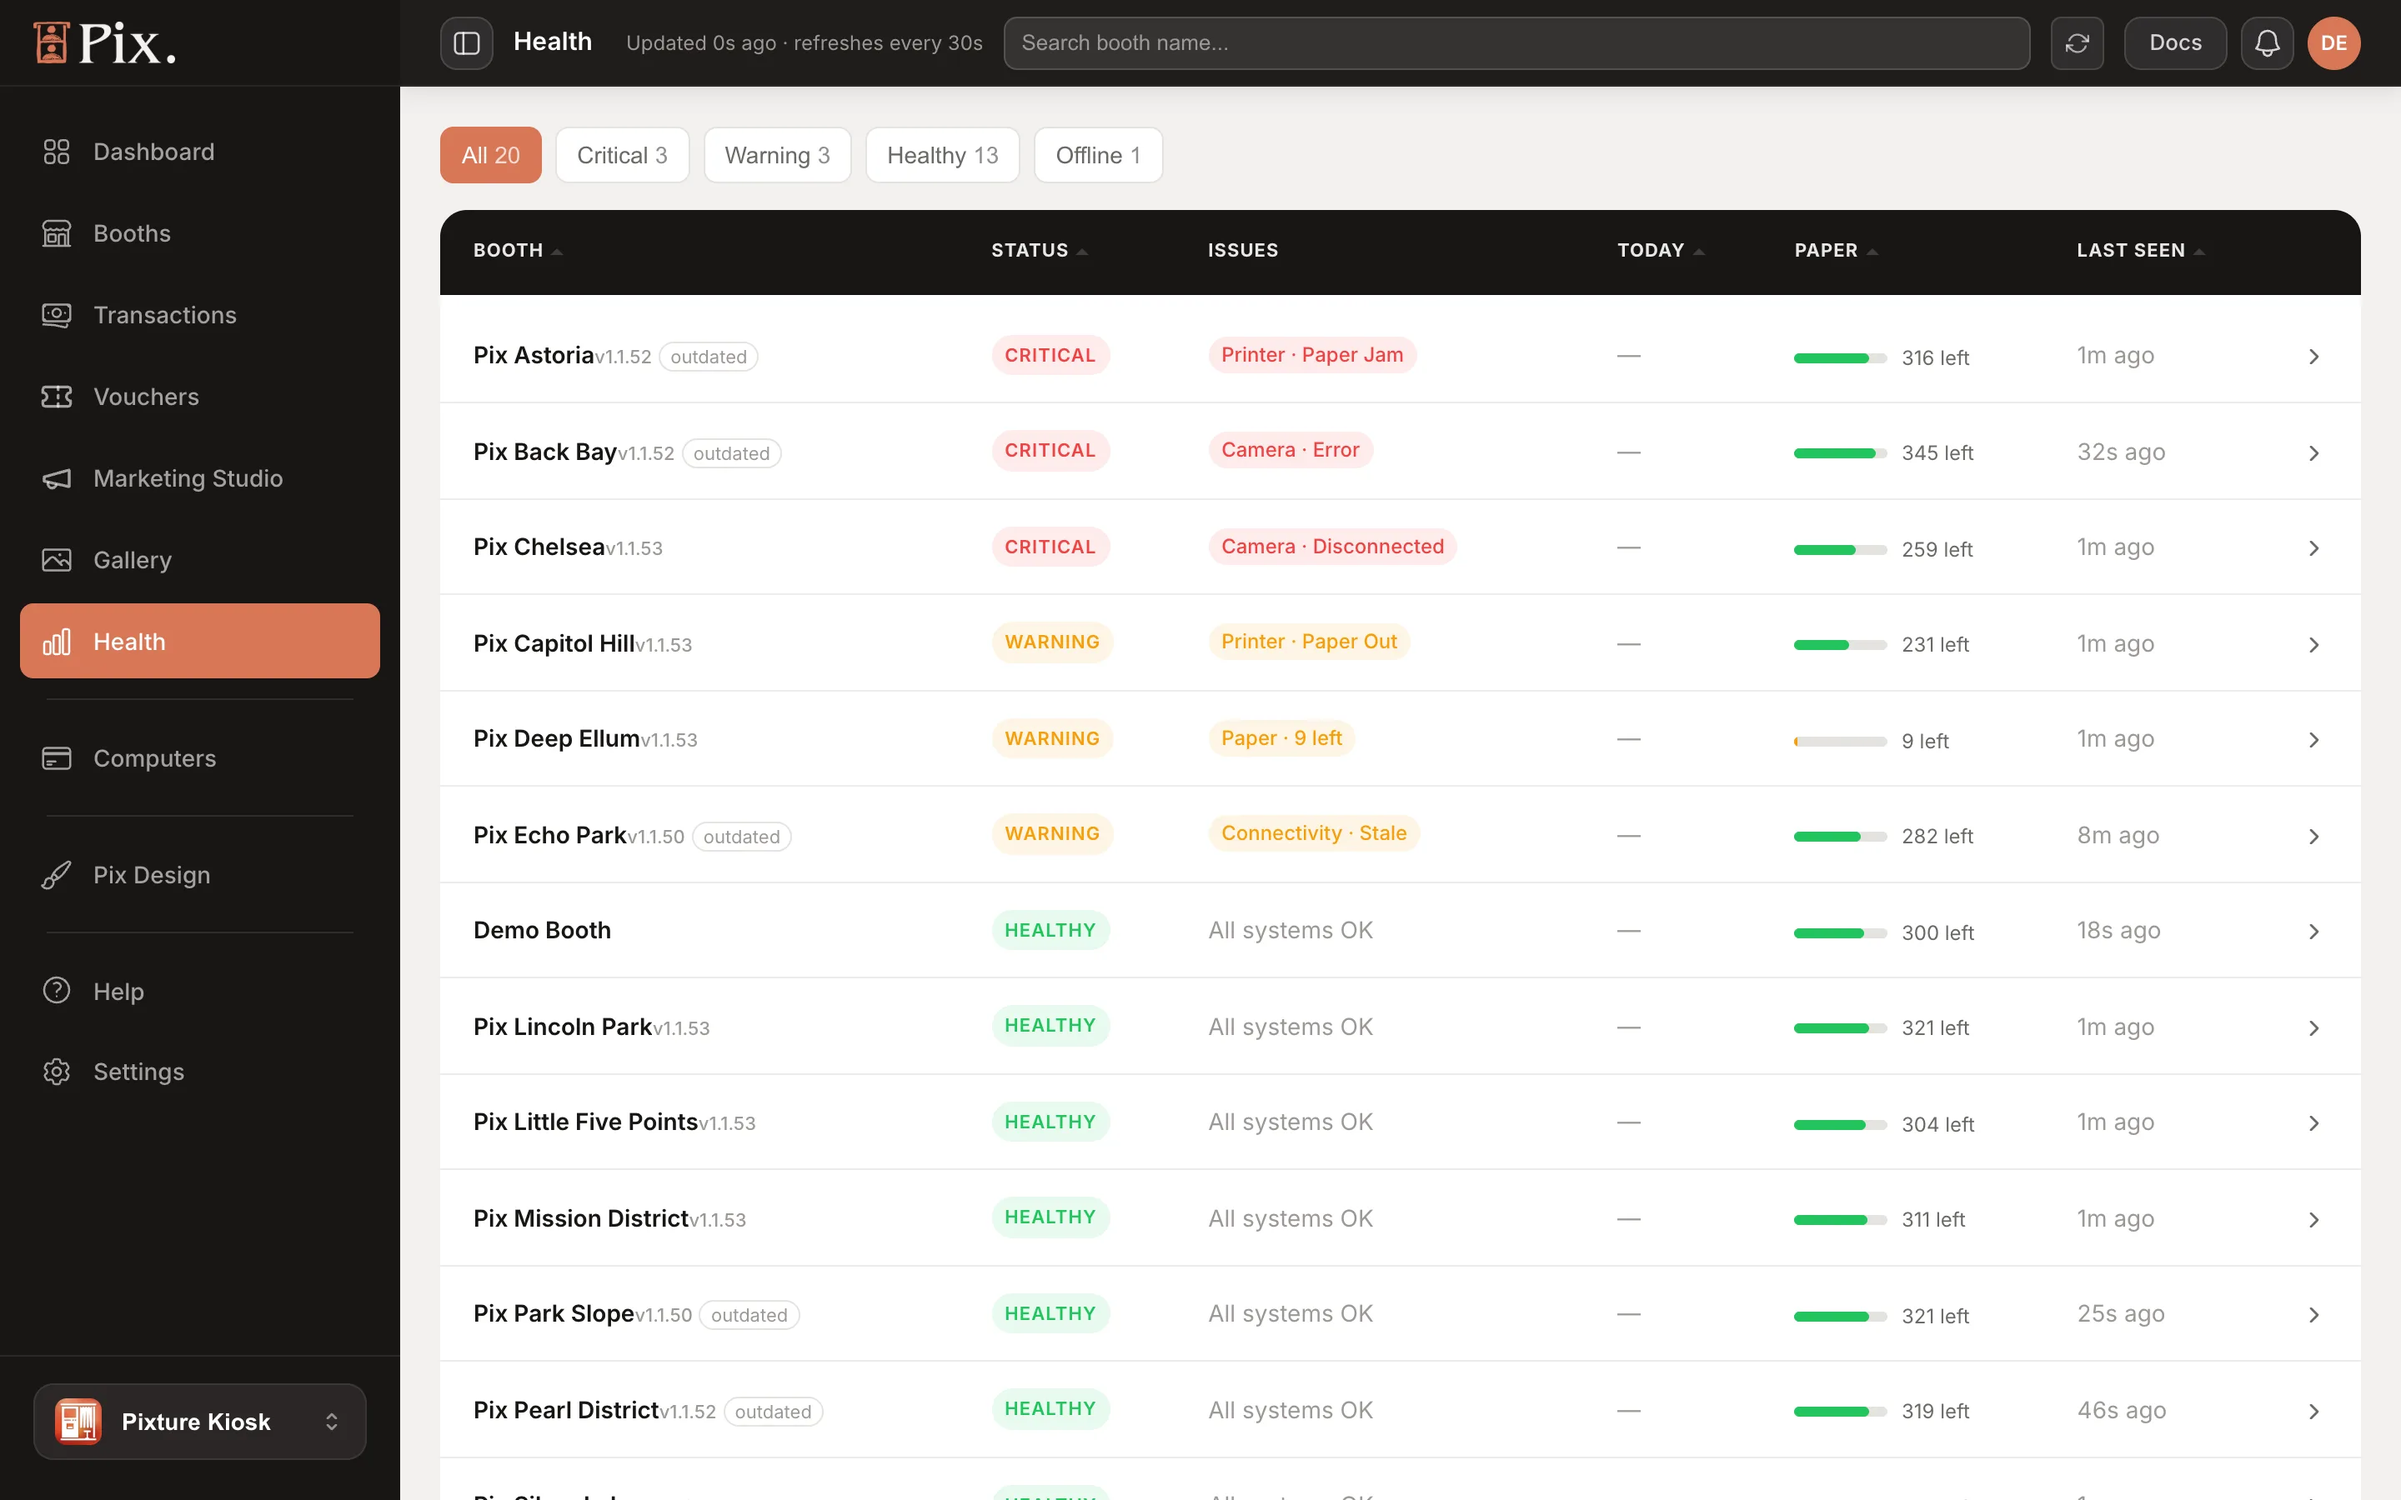
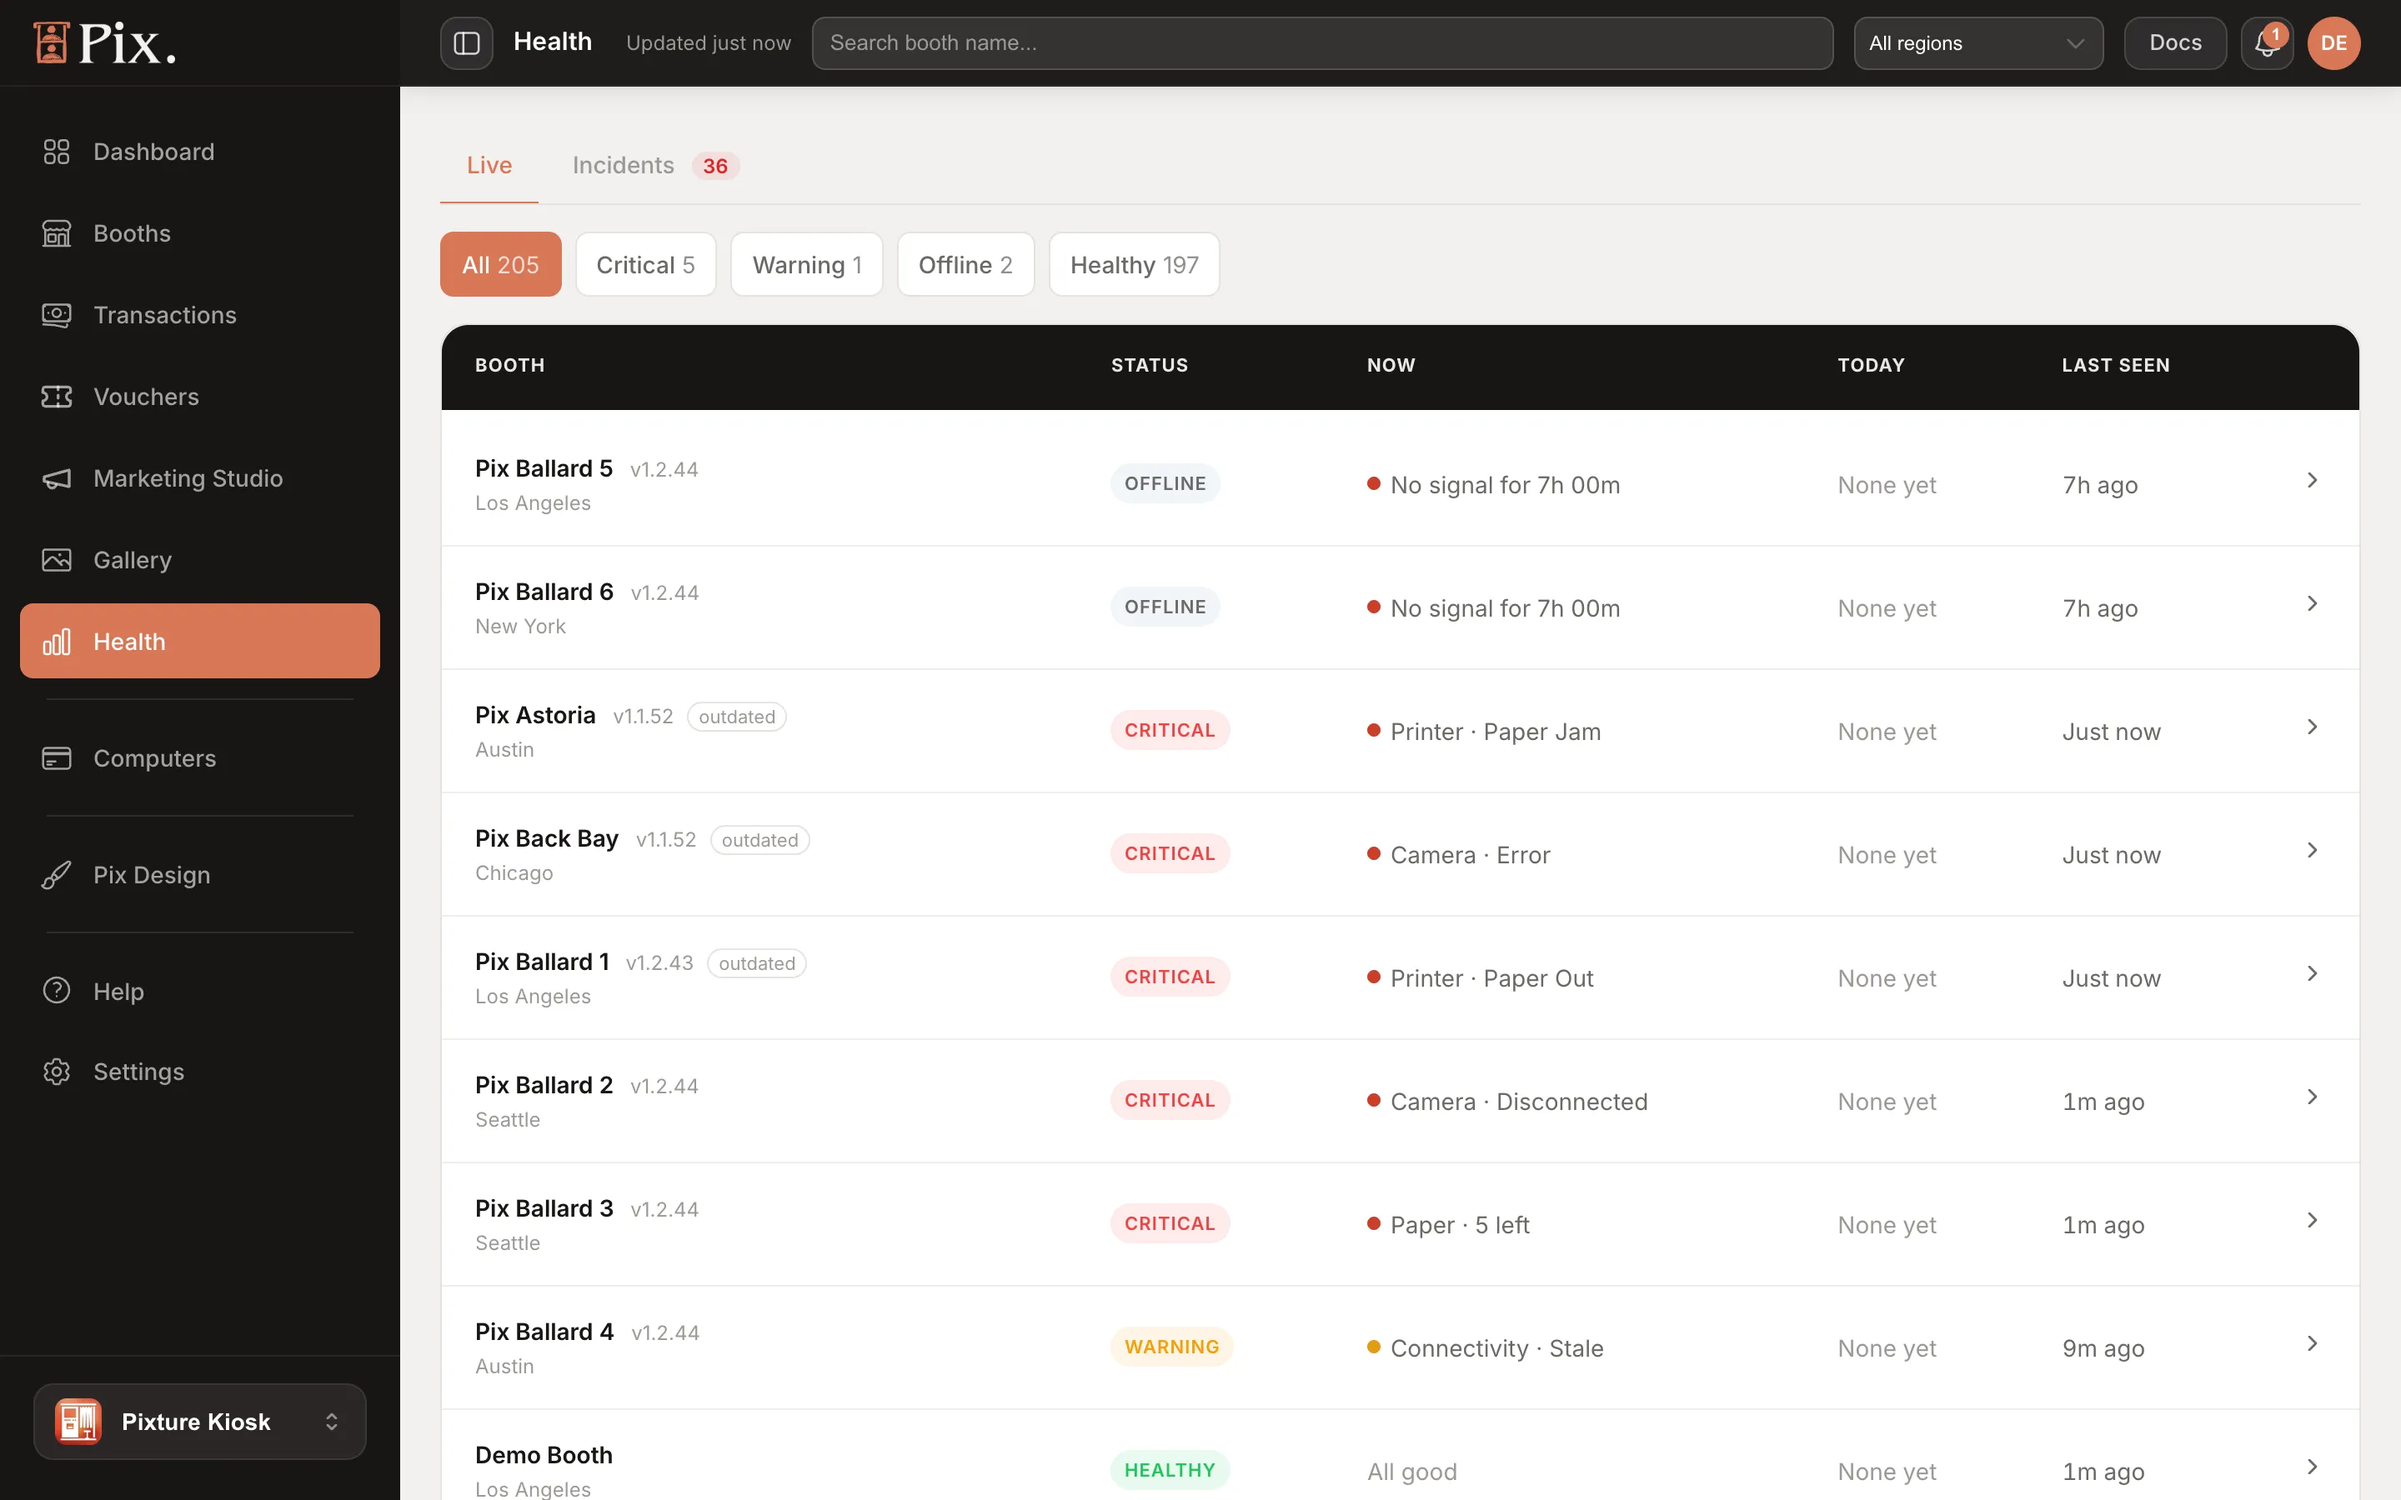
docs(health): the new Health page, Live list, booth view with 60 days of history, Incidents tab

diff --git a/docs/dashboard/health.md b/docs/dashboard/health.md
@@ -1,31 +1,30 @@
 ---
 sidebar_position: 11
 title: Health
-description: Whether every booth is online and working, with camera, printer, paper and upload signals, the booth detail panel, and error records you can download.
+description: Whether every booth is online and working, with camera, printer, paper and upload signals, a booth view with 60 days of history, and incidents you can filter and download.
 tags: [dashboard, health, monitoring]
 ---
 
 # Health
 
-**Health** is the page to open when a booth misbehaves, or before an event starts. It lists every booth with its status, what the booth is reporting, today's count, the paper level and when it last checked in.
+**Health** is the page to open when a booth misbehaves, or before an event starts. It lists every booth with its status, what the booth is reporting right now, today's count and when it last checked in. Click a booth for its readings and 60 days of history, and open **Incidents** for everything that went wrong.
 
-![Health page: booth rows with Status, Issues, Today, Paper and Last seen, Error records and Download CSV](/img/docs/health.webp)
+![Health page: the Live list with Status, Now, Today and Last seen, and the Incidents tab](/img/docs/health.webp)
 
 On an account with events, Health follows the workspace you are in. **Pixture Kiosk** lists your self-service booths, **Pixture Event** lists **Event health**: event booths and any booth attached to an event, and the **Overview** lists every booth. An event booth, or a booth attached to an event, shows only while its event is running or still to come. Once the event is past (from 06:00 the morning after its last date, or once it is ended or archived), its booths leave the list. The Event dashboard also shows a Health card. See [Pixture Event, Pixture Kiosk and Overview](./views.md).
 
-## Filters
+## Live
 
-Search by booth name, and filter by **All**, **Critical**, **Warning**, **Healthy** or **Offline**.
+**Live** is the list of your booths. Booths with a problem come first: Offline, then Critical, Warning and Healthy. The list shows 50 booths per page and refreshes by itself every 30 seconds; the note beside the title says how old the data is.
 
-## Columns
+Search by booth name, pick a **Region**, and filter by **All**, **Critical**, **Warning**, **Offline** or **Healthy**. A status with no booths is left out. Your search and filters stay in the page address, so they survive a reload and you can share the link.
 
 | Column | What it shows |
 |---|---|
-| Booth | The booth's name |
+| Booth | The booth's name, its app version (marked **outdated** when a newer one is out) and its region |
 | Status | Healthy, Warning, Critical or Offline |
-| Issues | What the booth is reporting, in plain words |
-| Today | Sessions so far today |
-| Paper | Prints left, marked **printer** when the printer driver reports it (DNP printers on a Mac booth with DNP's driver) or **counted** when the booth counts it (app 1.2.44 or newer, after **New roll loaded**). Empty while the booth is offline |
+| Now | What the booth is reporting, in plain words. "No signal for 1h 18m" for an offline booth, "Never connected" for a booth that has not signed in yet, "Dropped 3 times today" for a booth that keeps losing its connection |
+| Today | Sessions and prints so far today |
 | Last seen | When the computer last checked in |
 
 ## Online or Offline
@@ -45,19 +44,34 @@ Offline does not always mean something is wrong. A booth switched off outside op
 | Disk | The computer is running out of space | Clear old files on the booth PC |
 | Memory | The computer is short of memory | Restart the Pixture Photobooth app |
 
-## Booth Detail Panel
+## Booth View
 
-Click a booth row to open its detail panel: the signals above with their last values, today's sessions and prints, and the recent errors from this booth.
+Click a booth to open its view. It has three tabs.
 
-![Health booth detail panel](/img/docs/health-booth-detail.webp)
+![Health booth view, Now tab: the problem on top, the readings, today's count and the printer](/img/docs/health-booth-detail.webp)
+
+- **Now**: any problem on top, with what to do about it. Below it, the booth's readings (connection, camera, printer, paper, storage, uploads, network, memory, temperature), today's sessions and prints, the printer with its paper, the plan, and since when the booth has been online. A reading the booth does not send says "Not reported". An offline booth shows no readings: the last ones it sent may no longer be true.
+- **History**: the last 60 days, one line per day. The bar runs from midnight to midnight: green is the time the booth was online, red is time without a signal. The right side says how the day went: the number of sessions, "Offline 38 min", "Offline all day" or "No record". Click a day for the exact times.
+- **Incidents**: what went wrong on this booth in the last 60 days.
+
+![Health booth view, History tab: one bar per day for 60 days](/img/docs/health-booth-history.webp)
 
 ### New Roll Loaded
 
-For a booth computer, the panel's paper section shows "About N of N left, counted", the roll and when it was loaded, or "Not counted yet". After you load a new roll, click **New roll loaded**, pick the roll size or a **Custom amount**, and click **Start counting**. The booth picks it up at its next check-in, within 5 minutes, and starts counting from the full roll. Needs Pixture Photobooth 1.2.44 or newer. See [Paper Counter](../desktop-app/printer-setup.md#paper-counter).
+For a booth computer, the **Printer** section of the Now tab shows "About N of N left", the roll and when it was loaded, or "Not counted yet". After you load a new roll, click **New roll loaded**, pick the roll size or a **Custom amount**, and click **Start counting**. The booth picks it up at its next check-in, within 5 minutes, and starts counting from the full roll. Needs Pixture Photobooth 1.2.44 or newer. See [Paper Counter](../desktop-app/printer-setup.md#paper-counter).
 
-## Error Records
+## Incidents
 
-At the bottom of the page, **Error records** lists the errors your booths reported. Pick a range (**Last 24h**, **7 days**, **30 days** or **On a specific date**) and click **Download CSV** to send the file to Pixture support, or to keep for your own records.
+The **Incidents** tab lists every time a booth went offline or its camera, printer, paper, screen, memory or temperature failed. The number on the tab is how many are still open.
+
+![Health Incidents tab: totals, filters and the list of incidents](/img/docs/health-incidents.webp)
+
+- Three totals for the period you picked: **Open now**, **Incidents** and **Time offline**.
+- Filter by period (**Last 24 hours**, **7 days**, **30 days** or **60 days**), by type, and by **Open** or **Resolved**. The search and Region at the top of the page apply here too.
+- Each row shows when it started, the booth, what happened, how long it lasted and whether it is still open. Click a row for the details and the likely cause, when Pixture could work one out.
+- **Download CSV** saves every incident that matches your filters, to send to Pixture support or to keep for your own records.
+
+An incident closes by itself when the booth recovers. Incidents are kept for 90 days.
 
 ## App Version and Updates
 

diff --git a/docs/getting-started/your-first-session.md b/docs/getting-started/your-first-session.md
@@ -40,9 +40,9 @@ Studio mode and event video modes change the middle of this flow; see [Studio Se
 
    ![The Transactions page with search, booth filter, period pills, and the Total Transactions, Total Revenue, Payment Success and Session Completion cards](/img/docs/steps/getting-started-your-first-session--transactions.webp)
 
-3. Open **Health**. Your booth's row shows its status, any issues, today's session count, the paper level and when it was last seen. Errors from the booth land under **Error records**.
+3. Open **Health**. Your booth's row shows its status, what it reports now, today's session count and when it was last seen. Click the row for its readings, paper and history. Anything that goes wrong lands under **Incidents**.
 
-   ![The Health page with booth rows showing Status, Issues, Today, Paper and Last seen, and the Error records section](/img/docs/steps/getting-started-your-first-session--health.webp)
+   ![The Health page with booth rows showing Status, Now, Today and Last seen, and the Incidents tab](/img/docs/steps/getting-started-your-first-session--health.webp)
 
 The dashboard home also shows a "Your booth is live" banner with a **View gallery** button after the first session, and the setup banner goes away.
 

diff --git a/docs/getting-started/access-dashboard.md b/docs/getting-started/access-dashboard.md
@@ -35,7 +35,7 @@ If your account has events, the bottom of the sidebar has a switcher between **P
 | **Vouchers** | Free, percentage or fixed-amount codes, single or in batches, plus the **Online shop link** |
 | **Marketing Studio** | Pix Pro only: consent photos, audience, Promo, Frame Lab, campaigns and performance |
 | **Gallery** | Browse, download and delete the photos your booths produced |
-| **Health** | Live booth status, issues, today's sessions, paper level, last seen, and error records to download |
+| **Health** | Live booth status, what each booth reports now, today's sessions, last seen, 60 days of history per booth, and incidents to download |
 | **Computers** | Your computers, Pix Pro and Event Passes. **Add computer** and **Deactivate** (in each row's **Manage** menu) live here |
 | **Pix Design** | Template Editor, UI Editor, Photo Filters, GIF/Video overlay, Microsite and Pix AI (beta) |
 | **Help** | Opens a chat with Lucy, the in-dashboard assistant |

diff --git a/docs/dashboard/overview.md b/docs/dashboard/overview.md
@@ -28,7 +28,7 @@ If your account has events, a switcher at the bottom of the sidebar picks a **wo
 | [Vouchers](./vouchers.md) | Free, fixed-amount or percentage codes, one at a time or in batches |
 | [Marketing Studio](./marketing-studio.md) | Consent photos, audience, Promo, Frame Lab, campaigns and performance. Pix Pro only |
 | [Gallery](./gallery.md) | Browse, download and delete what your booths captured |
-| [Health](./health.md) | Which booths are online, their camera, printer, paper and error records |
+| [Health](./health.md) | Which booths are online, their camera, printer and paper, 60 days of history and incidents |
 | [Computers](./billing.md) | The computers running Pix Pro, your subscription, Event Passes and **Add computer** |
 | [Pix Design](./pix-design/overview.md) | Brand, Template Editor, UI Editor, Photo Filters, GIF/Video overlay, Microsite and Pix AI (beta) |
 | Help | Opens a chat with Lucy, the dashboard assistant |
